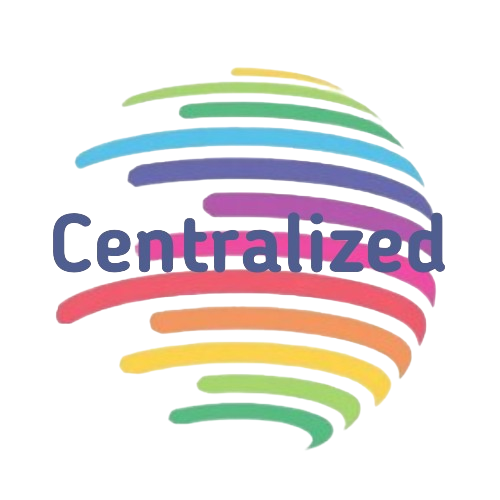
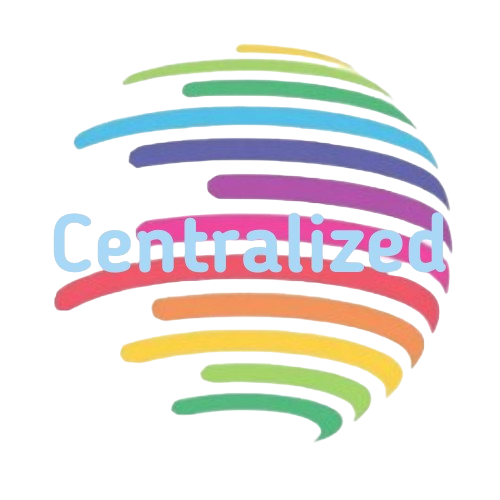
Matrix

diff --git a/src/pages/Matrix.jsx b/src/pages/Matrix.jsx
@@ -1,29 +1,9 @@
-import React, { useState } from "react";
-
 function Matrix() {
-  const [currentTheme, setCurrentTheme] = useState("light");
-
-  const handleThemeChange = (selectedTheme) => {
-    setCurrentTheme(selectedTheme);
-  };
-
-  const images = {
-    light: {
-      centralized: "c2.png",
-      decentralized: "de.png",
-    },
-    dark: {
-      centralized: "d2.png",
-      decentralized: "d2.png",
-    },
-  };
-
   const inlineStyles = `
 
     .body {
         font-family: 'Poppins', sans-serif;
         font-weight: 200;
-
         line-height: 1.7;
         color: var(--effect-2);
         background-color: #1f2029;
@@ -32,15 +12,13 @@ function Matrix() {
 
       }
       
-      
       p{
         font-family: 'Poppins', sans-serif;
-
-
         line-height: 1.7;
         color: var(--effect-2);
         margin: 0;
       }
+
       .section-fluid-main{
         position: relative;
         display: block;
@@ -96,13 +74,13 @@ function Matrix() {
         align-items: center;
       }
       
-      .section-in img{
+      .section-in{
         display: block;
         width: 100%;
         height: auto;
         transition: transform 250ms linear;
       }
-      .section-col:hover .section-in img{
+      .section-col:hover .section-in{
         transform: scale(1.2);
           opacity: 0.5;
       }
@@ -192,24 +170,33 @@ function Matrix() {
             color: var(--hover-subtext);
           }
 
+          .image1 {
+            background-image: var(--image1);
+            
+          }
+
+          .image2 {
+            background-image: var(--image2);
+          }
         `;
-  const currentImages = images[currentTheme];
+
   return (
     <div className="section-fluid-main">
       <div className="section-row">
         <div className="section-col" id="section1">
           <div className="section">
             <div className="section-in">
-              <img
-                src={currentImages.centralized}
-                alt="Logo"
+              <div
+                className="image1" // Apply the className for background image styles
                 style={{
-                  display: "block",
                   width: "200px",
-                  height: "auto",
+                  height: "200px", // Set a specific height to ensure visibility
                   margin: "0 auto",
+                  backgroundImage: "var(--image1)", // Set the background image using CSS variable
+                  backgroundSize: "contain",
+                  backgroundRepeat: "no-repeat", // Ensure the background image isn't repeated
                 }}
-              />
+              ></div>
             </div>
           </div>
         </div>
@@ -340,16 +327,17 @@ function Matrix() {
         <div className="section-col">
           <div className="section">
             <div className="section-in">
-              <img
-                src={currentImages.decentralized}
-                alt="Logo"
+              <div
+                className="image2" // Apply the className for background image styles
                 style={{
-                  display: "block",
                   width: "200px",
-                  height: "auto",
+                  height: "200px", // Set a specific height to ensure visibility
                   margin: "0 auto",
+                  backgroundImage: "var(--image2)", // Set the background image using CSS variable
+                  backgroundSize: "contain",
+                  backgroundRepeat: "no-repeat", // Ensure the background image isn't repeated
                 }}
-              />
+              ></div>
             </div>
           </div>
         </div>
@@ -420,16 +408,17 @@ function Matrix() {
         <div className="section-col" id="section1">
           <div className="section">
             <div className="section-in">
-              <img
-                src="c2.png"
+              <div
+                className="image1"
                 alt="Logo"
                 style={{
-                  display: "block",
                   width: "200px",
                   height: "auto",
                   margin: "0 auto",
+                  backgroundImage: "var(--image1)", // Add this line to set the background image
+                  backgroundSize: "contain", // Adjust background size to fit the container
                 }}
-              />
+              ></div>
             </div>
           </div>
         </div>

diff --git a/src/App.css b/src/App.css
@@ -27,6 +27,8 @@
   --button-text: #1e2a78; /* Ensure enough contrast against background */
   --hover-text: #234f88; /* Contrast against the hover background */
   --hover-subtext: #29285c; /* Subtle hover effect */
+  --image1: url("/c1.png");
+  --image2: url("/d1.png");
 }
 
 [data-theme="Dark"] {
@@ -58,6 +60,8 @@
   --button-text: #a2b2c7;
   --hover-text: #a8b2bb;
   --hover-subtext: #80b3c2;
+  --image1: url("c2.png");
+  --image2: url("d2.png");
 }
 
 body {

diff --git a/index.html b/index.html
@@ -5,7 +5,7 @@
     <link rel="icon" type="image/svg+xml" href="/logo.png" />
     <meta name="viewport" content="width=device-width, initial-scale=1.0" />
     <title>Crypto Policy DAO</title>
-    <link rel="stylesheet" href="/src/index.css" />
+    <link rel="stylesheet" href="/src/App.css" />
   </head>
   <body>
     <div id="root"></div>
